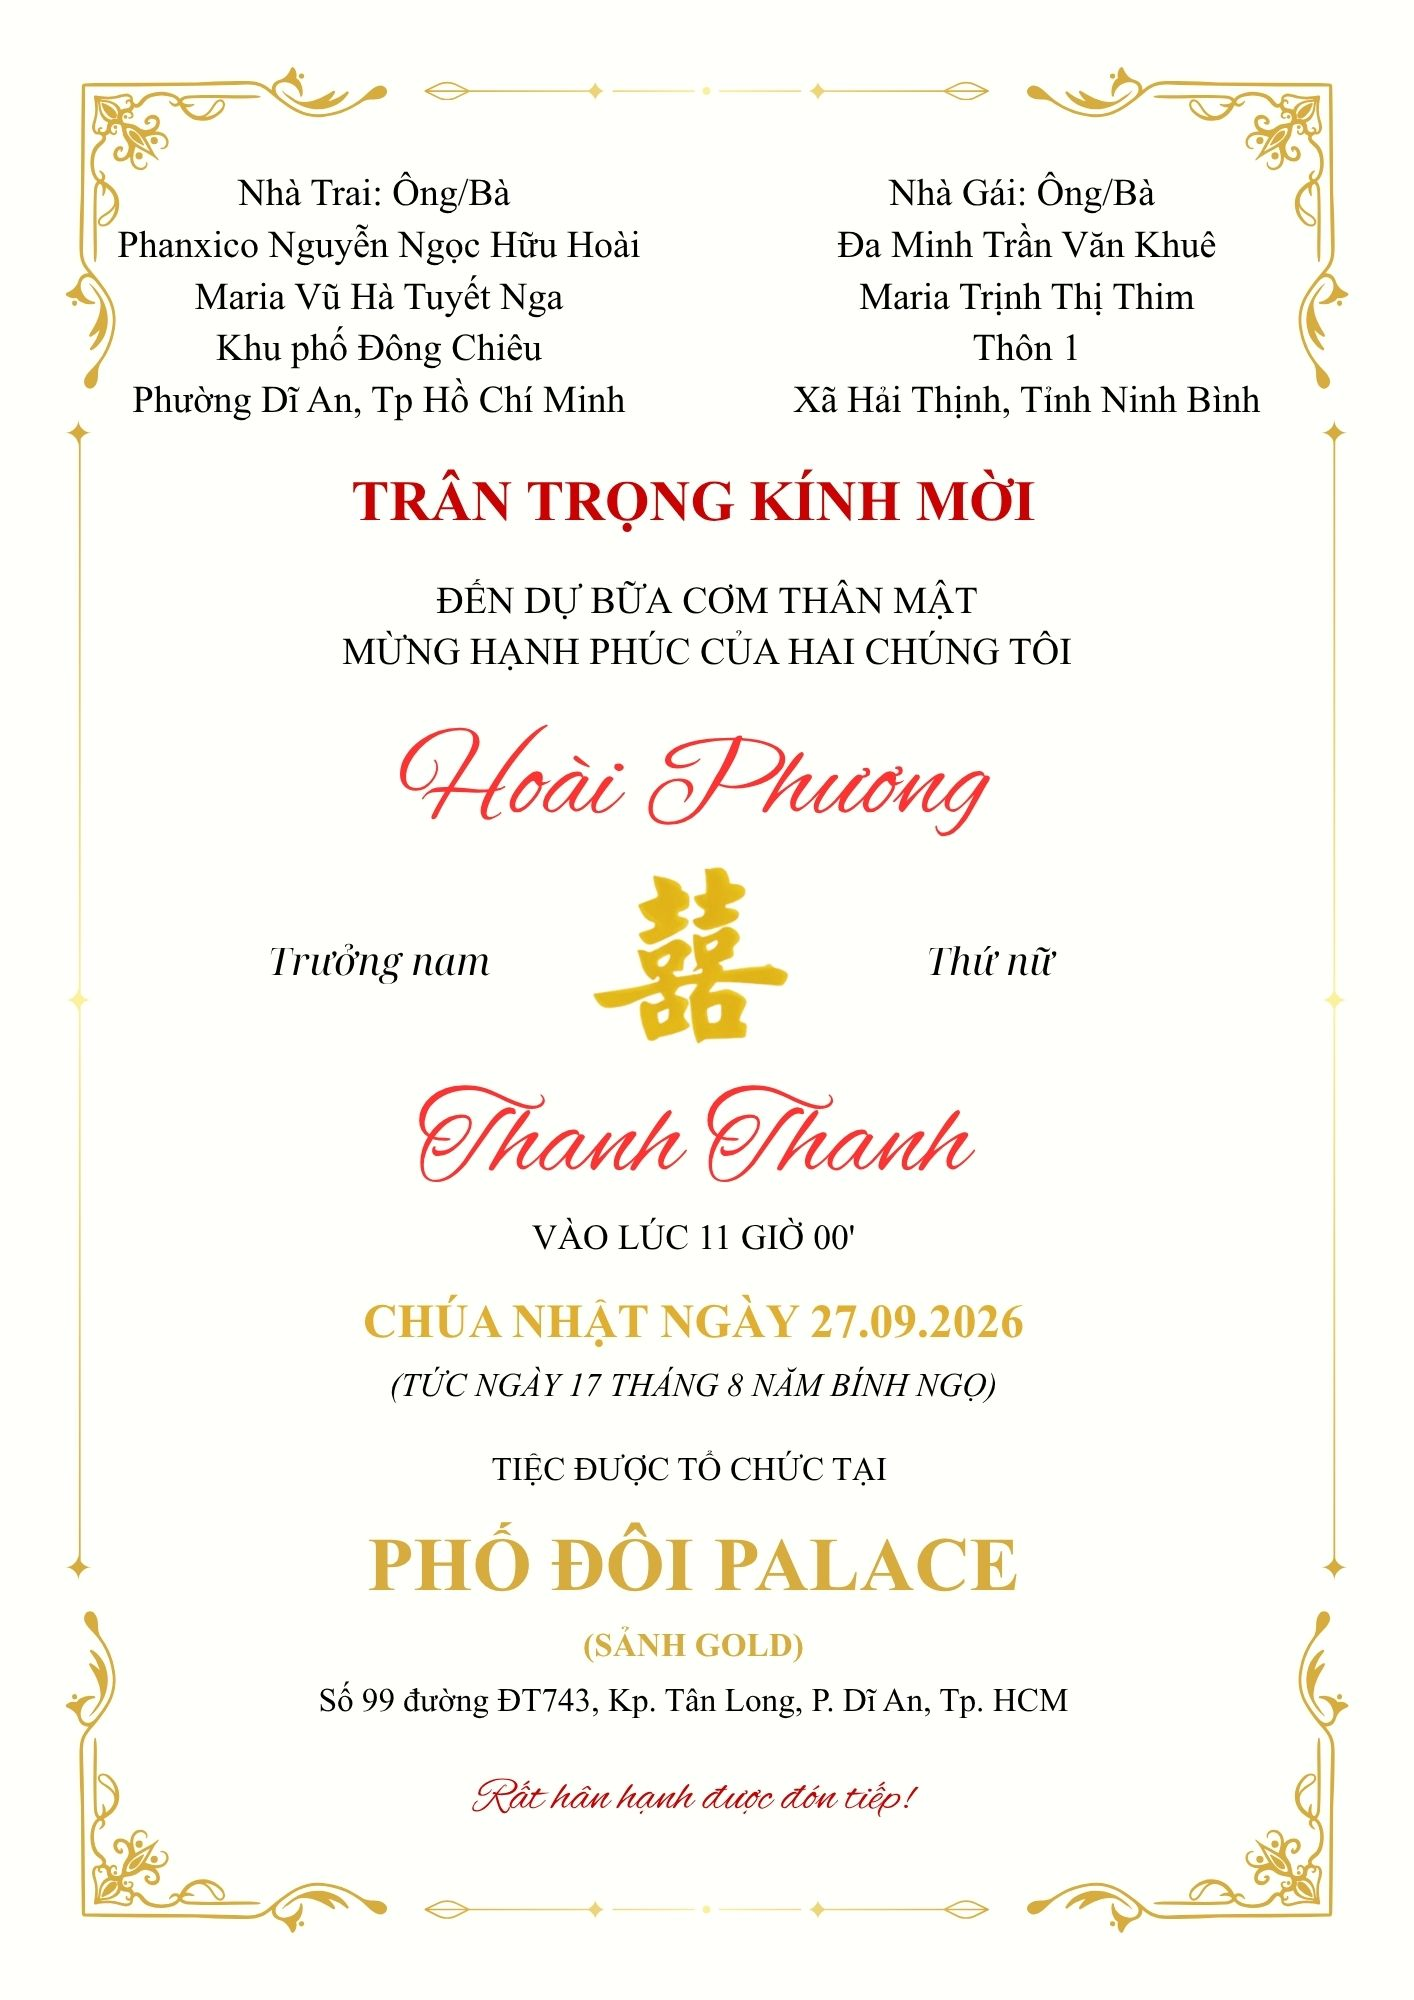
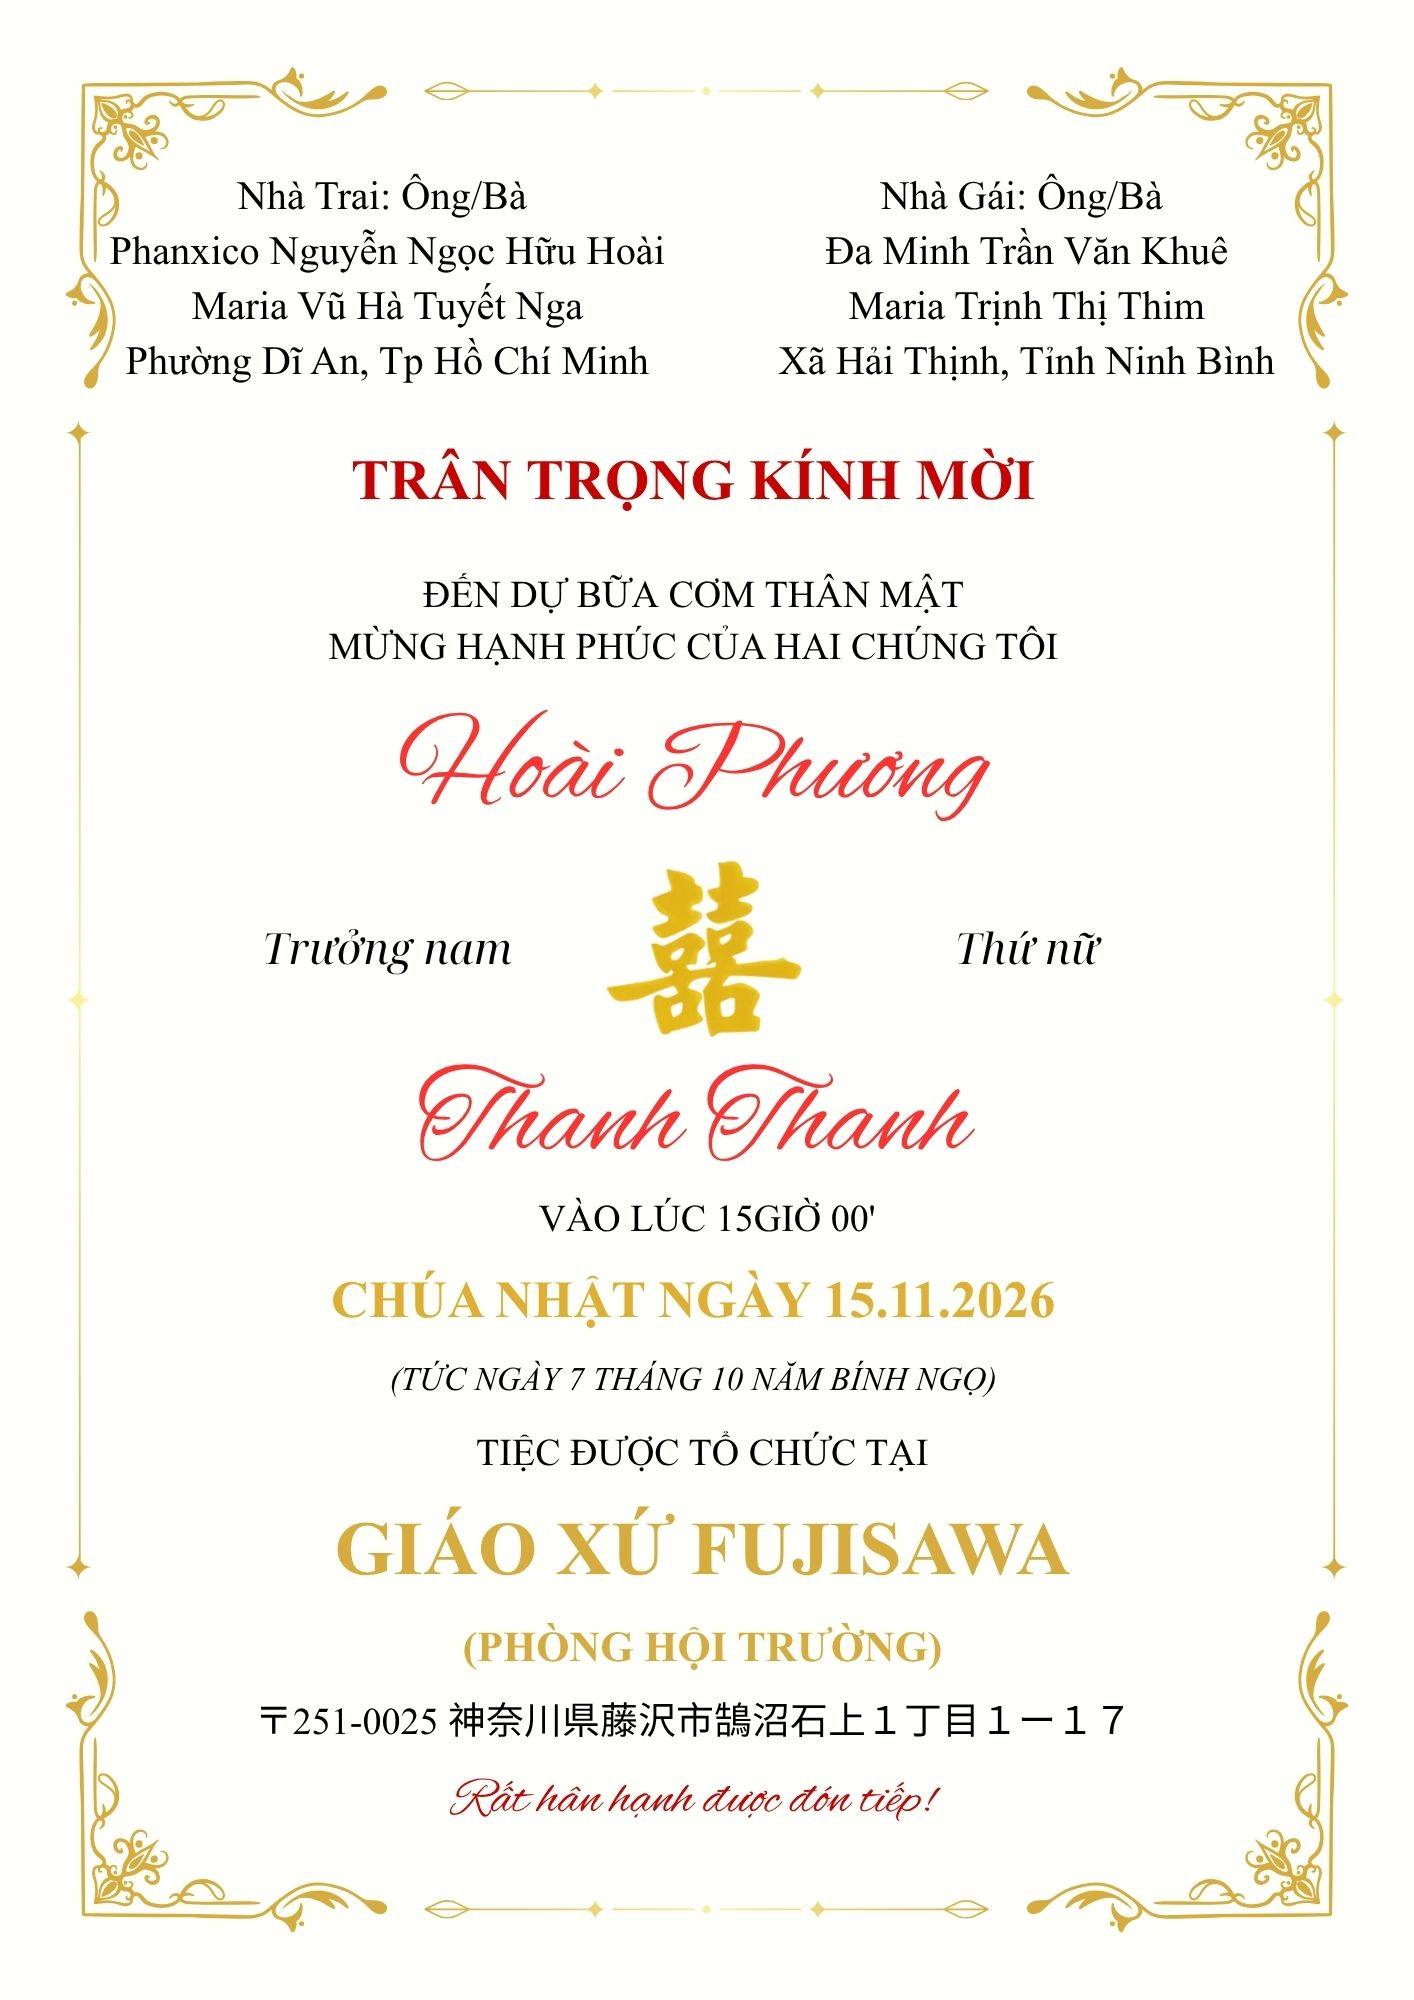
update everything

Changed region(s): [[0.0934, 0.093, 0.9024, 0.93], [0.1867, 0.465, 0.3734, 0.496], [0.6535, 0.465, 0.7779, 0.496]]

diff --git a/index.html b/index.html
@@ -5,7 +5,7 @@
     <meta name="viewport" content="width=device-width,initial-scale=1.0">
     <title>Phuong & Thanh Wedding</title>
     <!-- SEO -->
-    <meta name="description" content="Trân trọng kính mời bạn đến tham dự lễ thành hôn của Phuong và Thanh.">
+    <meta name="description" content="Trân trọng kính mời bạn đến tham dự Tiệc Báo Hỷ của Phương và Thanh.">
     <meta name="keywords" content="wedding, đám cưới, thiệp cưới, Phuong và Thanh">
     <meta name="author" content="Hoai Phuong">
     <meta name="format-detection" content="telephone=no">
@@ -14,7 +14,7 @@
     <!-- Open Graph (Facebook/Zalo/Teams) -->
     <meta property="og:title" content="Phương & Thanh Wedding">
     <meta property="og:type" content="website">
-    <meta property="og:description" content="Trân trọng kính mời bạn đến tham dự lễ thành hôn của chúng tôi.">
+    <meta property="og:description" content="Trân trọng kính mời bạn đến tham dự Tiệc Báo Hỷ của chúng tôi.">
     <meta property="og:image" content="https://hpshonan.github.io/wedding-invitation/images/newcover.jpg">
     <meta property="og:image:url" content="https://hpshonan.github.io/wedding-invitation/images/newcover.jpg">
     <meta property="og:image:secure_url" content="https://hpshonan.github.io/wedding-invitation/images/newcover.jpg">
@@ -37,7 +37,7 @@
     <div class="hero-content">
         <p>Save The Date</p>
         <h1>Hoài Phương & Thanh Thanh</h1>
-        <p class="date">27.9.2026</p>
+        <p class="date">15.11.2026</p>
     </div>
 </section>
 
@@ -54,7 +54,7 @@
                 <p>Trưởng nam</p>
                 <p>Con ông: Phanxico Nguyễn Ngọc Hữu Hoài<br>
                 Con bà: Maria Vũ Hà Tuyết Nga<br>
-                Kp Đông Chiêu, Phường Dĩ An, Tp Hồ Chí Minh</p>
+                Phường Dĩ An, Tp Hồ Chí Minh</p>
                 <img src="images/groom.jpg">
             </div>
             <div class="person">
@@ -62,7 +62,7 @@
                 <p>Thứ nữ</p>
                 <p>Con ông: Đa Minh Trần Văn Khuê<br>
                 Con bà: Maria Trịnh Thị Thim<br>
-                Thôn 1, Xã Hải Thịnh, Tỉnh Ninh Bình</p>
+                Xã Hải Thịnh, Tỉnh Ninh Bình</p>
                 <img src="images/bride.jpg">
             </div>
         </div>
@@ -77,7 +77,7 @@
             <p>Sự hiện diện của quý vị <br>Là món quà vô giá với gia đình chúng tôi ❤</p>
         </div>
         <div class="invitation-card">
-            <img src="images/Thumoi.jpg" alt="Thư mời lễ thành hôn của Hoài Phương và Thanh Thanh">
+            <img src="images/Thumoi.jpg" alt="Thư mời tiệc báo hỷ của Hoài Phương và Thanh Thanh">
         </div>
     </div>
 </section>
@@ -106,20 +106,12 @@
         </div>
         <div class="events-grid">
                 <div class="event-card">
-                <h3>Thánh Lễ Hôn Phối</h3>
-                <p>Chúa Nhật - 9:00 sáng</p>
-                <p>20/9/2026</p>
-                <p>Thánh đường Giáo xứ Trung Châu</p>
-                <p>Giáo phận Bùi Chu, Nam Định</p>
-                <a class="map-button" href="https://maps.app.goo.gl/LMNX4UCzUvJTgDbv7" target="_blank" rel="noopener">Xem bản đồ</a>
-            </div>
-            <div class="event-card">
-                <h3>Lễ Thành Hôn</h3>
-                <p>Chúa Nhật - 11:00 sáng</p>
-                <p>27/9/2026</p>
-                <p>Phố Đôi Palace - Sảnh GOLD</p>
-                <p>Phường Dĩ An, Hồ Chí Minh</p>
-                <a class="map-button" href="https://maps.app.goo.gl/d2sd9D5Fozcn1sjM7" target="_blank" rel="noopener">Xem bản đồ</a>
+                <h3>Thánh Lễ Tạ Ơn và Tiệc Báo Hỷ</h3>
+                <p>Chúa Nhật - 15:00</p>
+                <p>15/11/2026</p>
+                <p>Thánh đường Giáo xứ Fujisawa</p>
+                <p>Giáo phận Yokohama</p>
+                <a class="map-button" href="https://maps.app.goo.gl/dTv9xzMDgoA7Rrap6" target="_blank" rel="noopener">Xem bản đồ</a>
             </div>
         </div>
 
@@ -170,7 +162,7 @@
                 placeholder="Số điện thoại">
             <!-- Xác nhận tham dự -->
             <select id="attendance" required>
-                <option value="" selected disabled>Quý vị có thể tham dự tiệc cưới không?</option>
+                <option value="" selected disabled>Quý vị có thể tham dự tiệc không?</option>
                 <option value="Có tham dự">Có tham dự</option>
                 <option value="Không tham dự">Không tham dự</option>
             </select>

diff --git a/js/main.js b/js/main.js
@@ -1,5 +1,5 @@
 
-const weddingDay = new Date("Sep 27, 2026 09:00:00").getTime();
+const weddingDay = new Date("Nov 15, 2026 15:00:00").getTime();
 const attendance = document.getElementById("attendance");
 const guestCount = document.getElementById("guestCount");
 const guestSection = document.getElementById("guestSection");
@@ -128,17 +128,14 @@ const galleryImages = [
     "images/gallery1.jpg",
     "images/gallery2.jpg",
     "images/gallery4.jpg",
-    "images/gallery5.jpg",
     "images/gallery6.jpg",
     "images/gallery7.jpg",
     "images/gallery8.jpg",
     "images/gallery9.jpg",
     "images/gallery10.jpg",
-    "images/gallery11.jpg",
     "images/gallery12.jpg",
     "images/gallery13.jpg",
     "images/gallery15.jpg",
-    "images/gallery16.jpg",
     "images/gallery17.jpg",
     "images/gallery18.jpg",
     "images/gallery19.jpg",
@@ -150,9 +147,11 @@ const galleryImages = [
     "images/gallery25.jpg",
     "images/gallery26.jpg",
     "images/gallery27.jpg",
-    "images/gallery28.jpg",
     "images/gallery29.jpg",
-    "images/gallery30.jpg"
+    "images/gallery30.jpg",
+    "images/gallery41.jpg",
+    "images/gallery42.jpg",
+    "images/gallery50.jpg"
 ];
 
 const galleryModal = document.getElementById("galleryModal");
